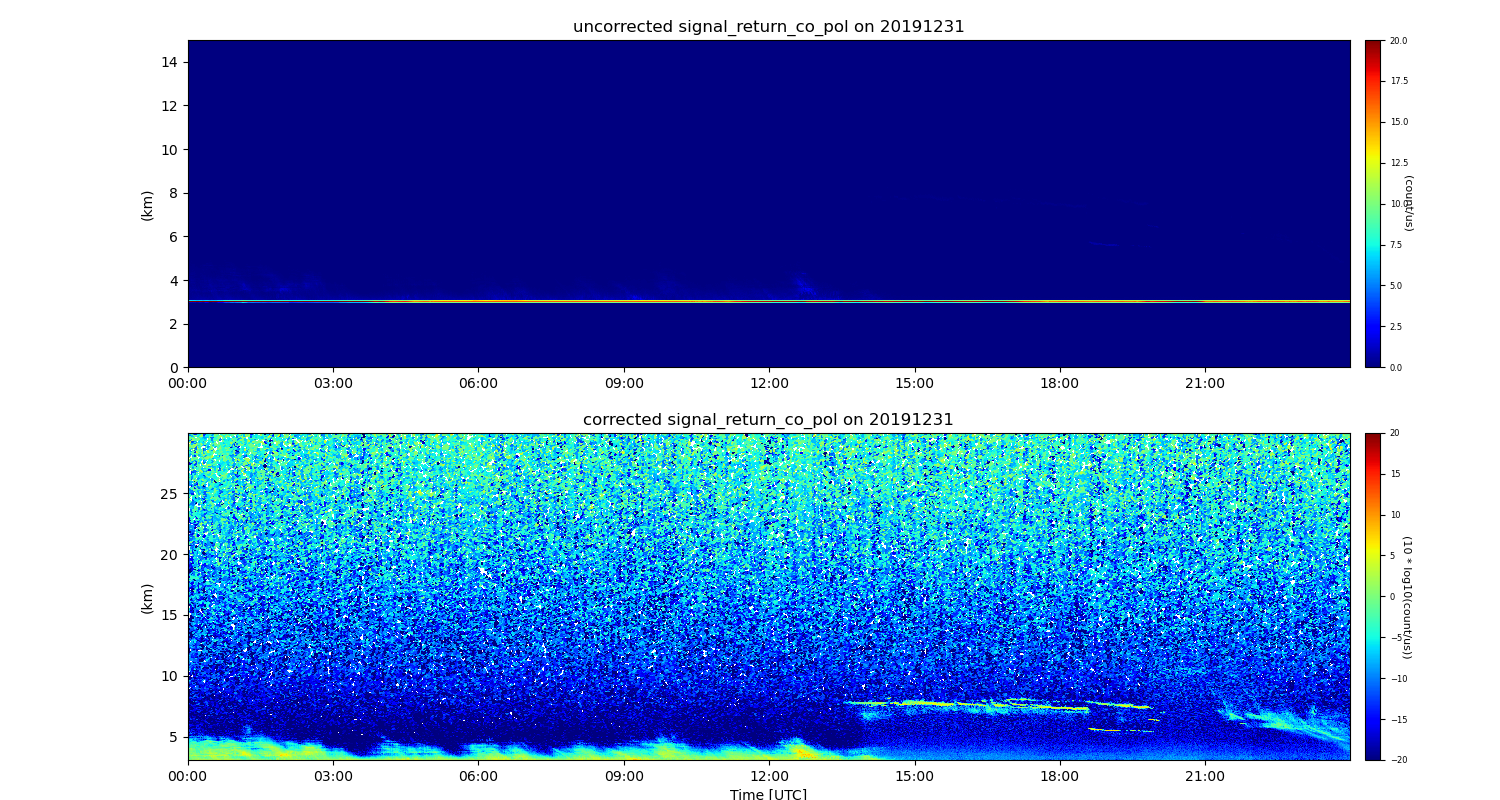
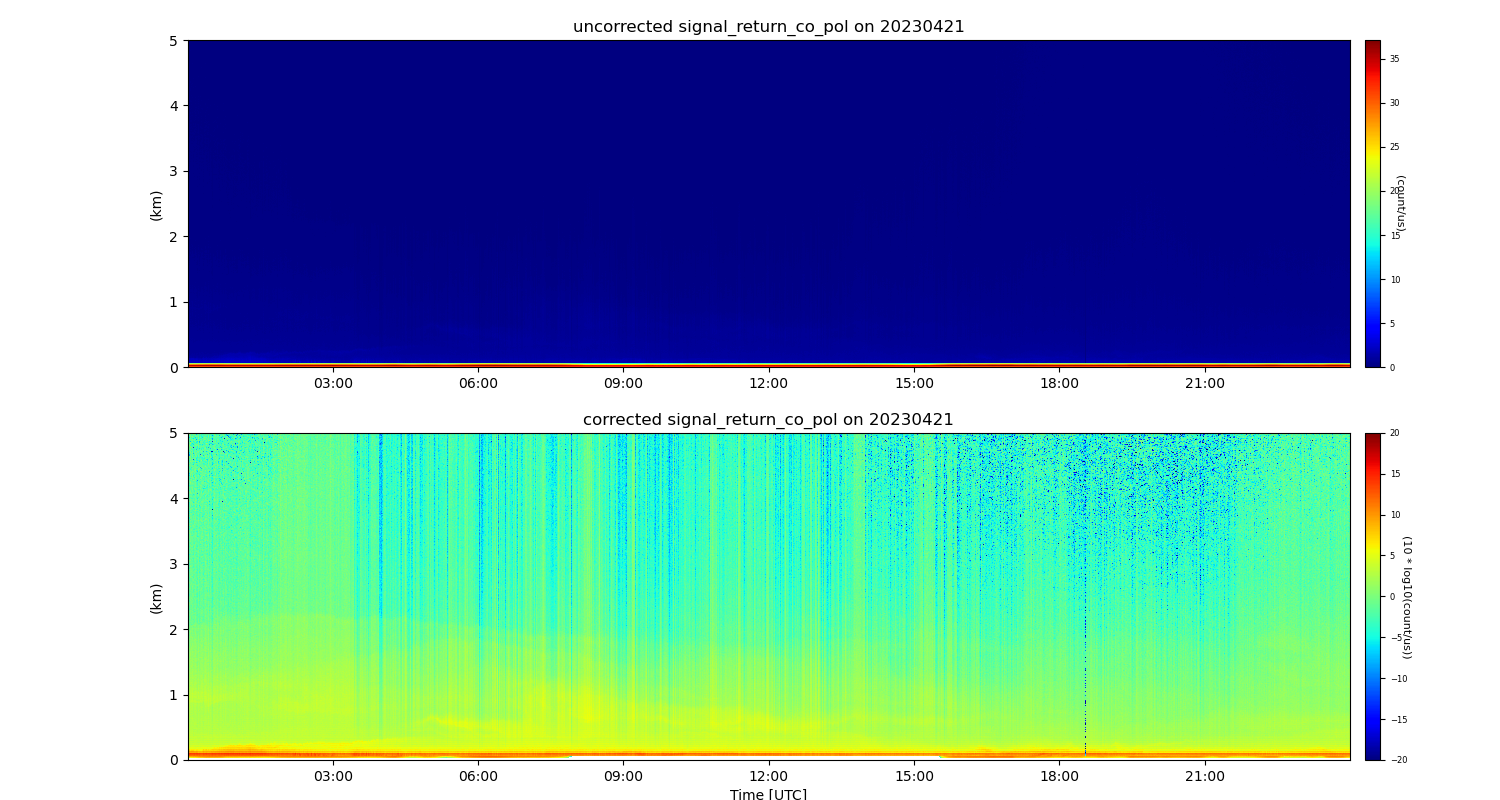
ENC: Latest programs/updates

diff --git a/dl.py b/dl.py
@@ -4,7 +4,7 @@ import act
 import glob
 import matplotlib.pyplot as plt
 import json
-import pyart
+import numpy as np
 
 #Read in ARM Live Data Webservice Token and Username
 with open('./token.json') as f:
@@ -12,31 +12,31 @@ with open('./token.json') as f:
 username = data['username']
 token = data['token']
 
-#Specify datastream and date range for KAZR data
-site = 'sgp'
-ceil_ds = site+'dlppiC1.b1'
-startdate = '2019-05-29'
-enddate = '2019-05-29'
+# We're going to use some test data that already exists within ACT
+# Let's set a longer time period
+startdate = '2022-07-16T21:00:00'
+enddate = '2022-07-16T22:00:00'
 
-sdate = ''.join(startdate.split('-'))
-edate = ''.join(enddate.split('-'))
+# SONDE
+datastream = 'houdlppiM1.b1'
+result = act.discovery.download_data(username, token, datastream, startdate, enddate)
+result.sort()
 
-#Download KAZR Data
-files = glob.glob(''.join(['./',ceil_ds,'/*cdf']))
-if len(files) == 0:
-    files = act.discovery.download_data(username, token, ceil_ds, startdate, enddate)
 
-# Read in KAZR data to Standard Object
-obj = act.io.armfiles.read_netcdf(files)
+ds = act.io.armfiles.read_netcdf(result)
+ds
+# Returns the wind retrieval information in a new object by default
+# Note that the default snr_threshold of 0.008 was too high for the first profile
+# Reducing it to 0.002 makes it show up but the quality of the data is likely suspect.
+ds_wind = act.retrievals.compute_winds_from_ppi(ds, snr_threshold=0.0001)
 
-#radar = act.utils.create_pyart_obj(obj, azimuth='azimuth', elevation='elevation',
-#                                   range_var='range', sweep_az_thresh=360)
+ds_wind = ds_wind.fillna(0)
 
-#display = pyart.graph.RadarDisplay(radar)
-#display.plot('radial_velocity', sweep=0, title_flag=False, vmin=-10., vmax=10., cmap='jet')
-#plt.show()
+# Plot it up
+display = act.plotting.TimeSeriesDisplay(ds_wind)
+display.plot_barbs_from_spd_dir('wind_speed', 'wind_direction', invert_y_axis=False, num_barbs_x=8, num_barbs_y=30)
 
-wind_obj = act.retrievals.compute_winds_from_ppi(obj, snr_threshold=1.005)
-display = act.plotting.TimeSeriesDisplay(wind_obj)
-display.plot_barbs_from_spd_dir('wind_direction', 'wind_speed', invert_y_axis=False)
+#Update the x-limits to make sure both wind profiles are shown
+display.axes[0].set_xlim([np.datetime64('2022-07-16T20:45:00'), np.datetime64('2022-07-16T22:15:00')])
+
 plt.show()

diff --git a/mpl_cor.py b/mpl_cor.py
@@ -17,9 +17,9 @@ username = data['username']
 token = data['token']
 
 #Specify datastream and date range for MET data
-datastream = 'olimplpolfsM1.b1'
-startdate = '2019-12-31'
-enddate = '2019-12-31'
+datastream = 'epcmplpolfsM1.b1'
+startdate = '2023-04-21'
+enddate = '2023-04-22'
 
 #Download MPL Data
 files = glob.glob(''.join(['./',datastream,'/*nc']))
@@ -31,21 +31,30 @@ if len(files) == 0:
 files.sort()
 #Read in MET data to Standard Object
 mpl = act.io.armfiles.read_netcdf(files)
-mpl = mpl.resample(time='1min').nearest()
-
-
+#mpl = mpl.resample(time='1min').nearest()
 mpl2 = act.corrections.mpl.correct_mpl(mpl)
+
+# Let's plot up the data to see what it looks like. But first,
+# if you look at the variables, you would see the the variable
+# we're going to plot has range_bins as it's 2nd dimension.
+# We want it to be height so we have to swap some coordinates around
+mpl.coords['height'] = mpl.height
+mpl = mpl.swap_dims({'range_bins': 'height'})
+mpl2.coords['height'] = mpl2.height
+mpl2 = mpl2.swap_dims({'range_bins': 'height'})
+
 #Plot out background and MET LCL Overlay
 print('Plotting')
 display = act.plotting.TimeSeriesDisplay({'corrected': mpl2, 'uncorrected': mpl},figsize=(15,8),subplot_shape=(2,))
 display.fig.subplots_adjust(bottom=0.05, top=0.95)
 display.plot('signal_return_co_pol', dsname='uncorrected',
              cmap='jet', subplot_index=(0,))
-#Set Height as Dimension
-#mpl.range_bins.values = mpl.height.values
+
+
 display.plot('signal_return_co_pol', dsname='corrected',
              vmin=-20, vmax=20, cmap='jet', subplot_index=(1,))
-display.set_yrng([0,15])
+display.set_yrng([0,5], subplot_index=(0,))
+display.set_yrng([0,5], subplot_index=(1,))
 plt.savefig('./images/mpl_cor.png')
 
 mpl.close()

diff --git a/dqr_vis.py b/dqr_vis.py
@@ -1,13 +1,13 @@
 # Import libraries
 import sys
-sys.path.insert(0,'/Users/atheisen/Code/sandbox/ACT')
+#sys.path.insert(0,'/Users/atheisen/Code/sandbox/ACT')
 
 import act
 import matplotlib.pyplot as plt
 import glob
 
 # Read in Data
-obj = act.io.armfiles.read_netcdf(glob.glob('./sgpmfrsr7nchE11.b1/*'))
+obj = act.io.armfiles.read_netcdf(glob.glob('./data/sgpmfrsr7nchE11.b1/*'))
 
 # Convert data to cf-standards
 obj.clean.cleanup()
@@ -17,10 +17,15 @@ variable = 'diffuse_hemisp_narrowband_filter4'
 obj.qcfilter.add_greater_test(variable, 0.4)
 
 # Query ARM's DQR webservice and add to the qc variable
-obj = act.qc.arm.add_dqr_to_qc(obj, variable=variable)
+obj = act.qc.arm.add_dqr_to_qc(obj, variable=variable, dqr_link=True)
 
 # Filter variable based on qc variable and remove data flagged by test 2, 3, and 4
 obj.qcfilter.datafilter(variable, rm_tests=[2, 3, 4], del_qc_var=False)
+obj.qcfilter.datafilter(variable, rm_assessments=['Bad'], del_qc_var=False)
+
+print(obj[variable].attrs['history'])
+
+obj.write.write_netcdf(path='./dqr_test.nc')
 
 # Set up the ACT TimeSeries Plot to hold 2 plots
 display = act.plotting.TimeSeriesDisplay(obj, figsize=(15, 10), subplot_shape=(2,))

diff --git a/read_data.py b/read_data.py
@@ -3,15 +3,30 @@ import glob
 import sys
 #sys.path.insert(0,'/Users/atheisen/Code/sandbox/ACT')
 import act
+import radtraq
 print(act.__file__)
 
 import xarray as xr
+import matplotlib.pyplot as plt
 #files = glob.glob('./corkazrcfrgeM1.a1/*20190401.2*')
 #obj = xr.open_mfdataset(files)
 #print(obj['time'])
 
-files = glob.glob('./Data/sgpmfrsr7nchE38.b1/*')[0]
-obj = act.io.armfiles.read_netcdf(files, decode_times=False)
+files = glob.glob('./data/epckazrcfrgeM1.a1/*20230516.19*')
+print(files)
+obj = act.io.armfiles.read_netcdf(files, engine='netcdf4')
+obj = obj.resample(time='1min').nearest()
+obj = radtraq.proc.cloud_mask.calc_cloud_mask(obj, 'reflectivity')
+obj = obj.where(obj['cloud_mask_2'] == 1)
+
+display = act.plotting.TimeSeriesDisplay(obj)
+#display.plot('reflectivity', cb_friendly=True)
+display.plot('linear_depolarization_ratio', cb_friendly=True)
+#display.plot('mean_doppler_velocity', cb_friendly=True)
+#display.plot('reflectivity_crosspolar_v', cb_friendly=True)
+display.set_yrng([0,4000])
+plt.show()
+
 #obj.close()
 #obj = act.io.armfiles.read_netcdf(files, combine='nested', use_cftime=True)
 #time = obj['base_time'].values + obj['time_offset'].values

diff --git a/get_data.py b/get_data.py
@@ -14,14 +14,12 @@ username = data['username']
 token = data['token']
 
 #Specify datastream and date range for KAZR data
-site = 'sgp'
-startdate = '2022-07-01'
-enddate = '2022-07-07'
+startdate = '2022-5-16'
+enddate = '2022-05-17'
 
 sdate = ''.join(startdate.split('-'))
 edate = ''.join(enddate.split('-'))
 
-datastream = 'nsamawsC1.b1'
-data_dir = './Data/' + datastream
-data_dir = './chat_AI_tests/data/' + datastream
+datastream = 'houaosapsM1.b1'
+data_dir = './data/' + datastream
 result = act.discovery.download_data(username, token, datastream, startdate, enddate, output=data_dir)

diff --git a/test_tests.py b/test_tests.py
@@ -11,12 +11,17 @@ import act.tests.test_qc as tq
 import act.tests.test_discovery as td
 import matplotlib.pyplot as plt
 
-td.test_get_armfile()
+#ti.test_read_surfrad()
+#td.test_download_surfrad()
+#tp.test_scatter()
+#tq.test_scalar_dqr()
+#tq.test_qctests_dos()
+#td.test_get_armfile()
 #tu.test_adjust_timestamp()
 #tr.test_calculate_heffter_pbl()
 #tr.test_calculate_pbl_liu_liang()
 #ti.test_read_psl_fmcw_moment()
-#td.test_airnow()
+td.test_airnow()
 #tq.test_qc_flag_description()
 #tp.test_plot_datarose()
 #td.test_noaa_psl()

diff --git a/noaa_arm_comp.py b/noaa_arm_comp.py
@@ -7,9 +7,12 @@ import matplotlib.pyplot as plt
 import datetime as dt
 
 # Download NOAA moments data
-#result = act.discovery.download_noaa_psl_data(
-#    site='bck', instrument='Radar FMCW Moment', startdate='20220815'
-#)
+result = act.discovery.download_noaa_psl_data(
+    site='bck', instrument='Radar FMCW Moment',
+    startdate='20220815', enddate='20220820'
+)
+print(result)
+sys.exit()
 
 files = glob.glob('./kps_Radar_FMCW_Moment/kps22227*.raw')
 files.sort()

diff --git a/crop_test.py b/crop_test.py
@@ -13,6 +13,6 @@ arm_type=['Pasture','Pasture','Field to South, Grass','Pasture','Pasture']
 
 fac = [fac[0]]
 for i,f in enumerate(fac):
-    crop = act.discovery.get_CropScape.croptype(lat[i],lon[i],year)
+    crop = act.discovery.get_cropscape.croptype(lat[i],lon[i],year)
 
     print(f,' ',crop,'; ARM: ',arm_type[i])

diff --git a/doi.py b/doi.py
@@ -2,7 +2,8 @@ import act
 import requests
 import json
 
-ds = 'sgpmetE13.b1'
+ds = 'sgpstampE13.b1'
+ds = 'test'
 site = ds[0:3]
 c_start = '2022-05-01'
 c_end = '2022-05-31'
